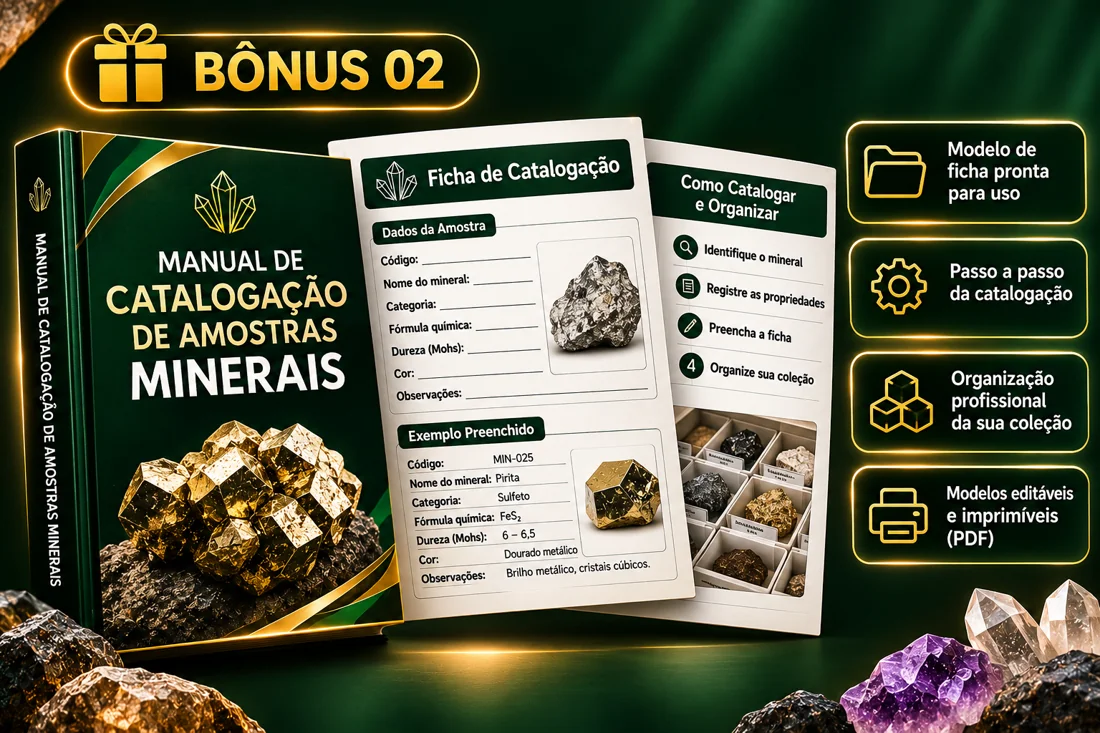
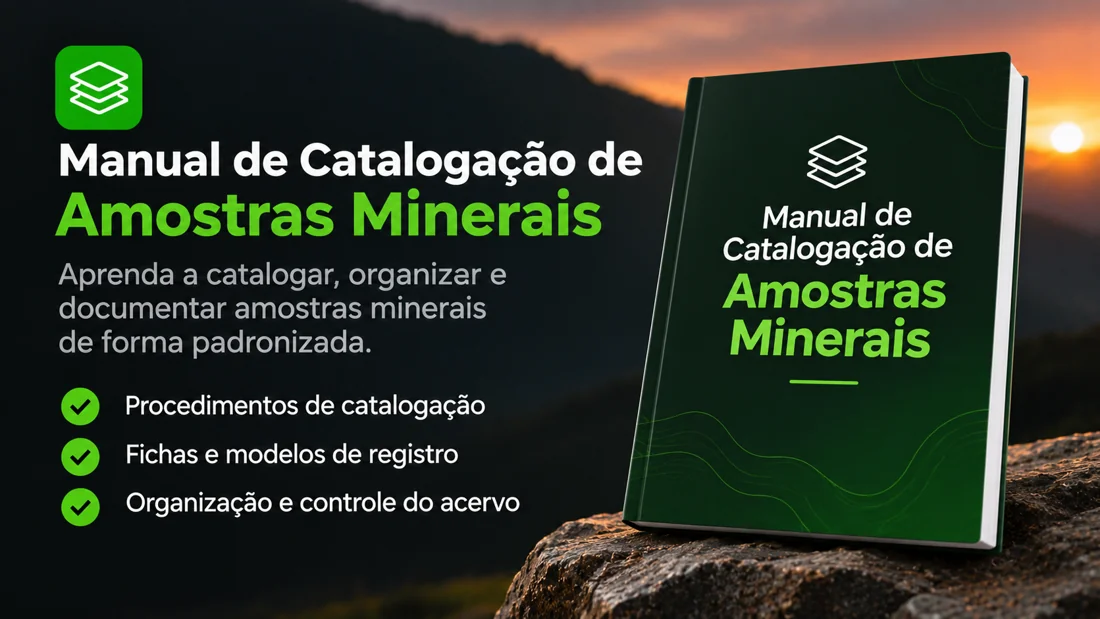
Update all four bonus images with new supplied artwork

diff --git a/index.html b/index.html
@@ -2,7 +2,7 @@
 <section class="section"><div class="head"><h2>Para quem é<br><em>este material?</em></h2></div><div class="audiences"><article class="audience"><span class="icon" aria-hidden="true">◇</span><h3>Estudantes</h3><p>Em Geologia, Engenharia de Minas e Geociências, relacione imagens e propriedades para complementar as aulas e revisar Mineralogia.</p></article><article class="audience"><span class="icon" aria-hidden="true">◈</span><h3>Professores</h3><p>Consulte exemplos e diagramas para preparar explicações de Mineralogia, Geologia e cursos técnicos, respeitando a licença dos arquivos.</p></article><article class="audience"><span class="icon" aria-hidden="true">⌕</span><h3>Técnicos e profissionais</h3><p>Retome fundamentos de identificação, propriedades e classes minerais para revisão e consulta em Geologia e Mineração.</p></article><article class="audience"><span class="icon" aria-hidden="true">▤</span><h3>Colecionadores e interessados</h3><p>Na Gemologia ou no estudo de uma coleção, compare características minerais e organize informações sobre suas amostras.</p></article></div></section>
 
 
-<section class="section soft" id="bonus"><div class="bonus-shell"><div class="head"><span class="tag">4 bônus no Plano Completo</span><h2>Bônus exclusivos</h2></div><article class="bonus-card"><img class="bonus-image" src="assets/bonus-01.webp" alt="Bônus 1 — Caderno de Questões de Mineralogia" width="1100" height="733" loading="lazy" decoding="async"><div class="bonus-copy"><small>BÔNUS 01</small><h3>Caderno de Questões de Mineralogia</h3><div class="bonus-free">Grátis no Plano Completo</div></div></article><article class="bonus-card"><img class="bonus-image" src="assets/bonus-02.webp" alt="Bônus 2 — Manual de Catalogação de Amostras Minerais" width="1100" height="733" loading="lazy" decoding="async"><div class="bonus-copy"><small>BÔNUS 02</small><h3>Manual de Catalogação de Amostras Minerais</h3><div class="bonus-free">Grátis no Plano Completo</div></div></article><article class="bonus-card"><img class="bonus-image" src="assets/bonus-03.webp" alt="Bônus 3 — Guia Ilustrado de Identificação de Rochas" width="1100" height="733" loading="lazy" decoding="async"><div class="bonus-copy"><small>BÔNUS 03</small><h3>Guia Ilustrado de Identificação de Rochas</h3><div class="bonus-free">Grátis no Plano Completo</div></div></article><article class="bonus-card"><img class="bonus-image" src="assets/bonus-04.webp" alt="Bônus 4 — Certificado Digital de Conclusão" width="1100" height="733" loading="lazy" decoding="async"><div class="bonus-copy"><small>BÔNUS 04</small><h3>Certificado Digital de Conclusão</h3><div class="bonus-free">Grátis no Plano Completo</div></div></article></div></section>
+<section class="section soft" id="bonus"><div class="bonus-shell"><div class="head"><span class="tag">4 bônus no Plano Completo</span><h2>Bônus exclusivos</h2></div><article class="bonus-card"><img class="bonus-image" src="assets/bonus-01.webp" alt="Bônus 1 — Caderno de Questões de Mineralogia" width="1100" height="619" loading="lazy" decoding="async"><div class="bonus-copy"><small>BÔNUS 01</small><h3>Caderno de Questões de Mineralogia</h3><div class="bonus-free">Grátis no Plano Completo</div></div></article><article class="bonus-card"><img class="bonus-image" src="assets/bonus-02.webp" alt="Bônus 2 — Manual de Catalogação de Amostras Minerais" width="1100" height="619" loading="lazy" decoding="async"><div class="bonus-copy"><small>BÔNUS 02</small><h3>Manual de Catalogação de Amostras Minerais</h3><div class="bonus-free">Grátis no Plano Completo</div></div></article><article class="bonus-card"><img class="bonus-image" src="assets/bonus-03.webp" alt="Bônus 3 — Guia Ilustrado de Identificação de Rochas" width="1100" height="619" loading="lazy" decoding="async"><div class="bonus-copy"><small>BÔNUS 03</small><h3>Guia Ilustrado de Identificação de Rochas</h3><div class="bonus-free">Grátis no Plano Completo</div></div></article><article class="bonus-card"><img class="bonus-image" src="assets/bonus-04.webp" alt="Bônus 4 — Certificado Digital de Conclusão" width="1100" height="733" loading="lazy" decoding="async"><div class="bonus-copy"><small>BÔNUS 04</small><h3>Certificado Digital de Conclusão</h3><div class="bonus-free">Grátis no Plano Completo</div></div></article></div></section>
 <section class="section" id="planos"><div class="head"><h2>Escolha seu plano</h2></div><div class="plans"><article class="plan"><h3>Plano Básico</h3><p class="desc">A coleção de fichas para estudo, revisão e consulta.</p><div class="price"><small>R$</small>10,00 <span>/ pagamento único</span></div><ul class="ticks"><li><strong>+150 materiais de Mineralogia em PDF</strong></li><li>Propriedades, classificações e exemplos visuais</li><li>Pagamento único</li><li class="excluded"><span class="sr-only">Não incluído: </span>Caderno de Questões de Mineralogia</li><li class="excluded"><span class="sr-only">Não incluído: </span>Manual de Catalogação de Amostras Minerais</li><li class="excluded"><span class="sr-only">Não incluído: </span>Guia Ilustrado de Identificação de Rochas</li><li class="excluded"><span class="sr-only">Não incluído: </span>Certificado Digital de Conclusão</li></ul><a class="btn outline" id="basic" href="#planos">QUERO O PLANO BÁSICO</a><p class="micro">Pagamento pela GGCheckout</p></article><article class="plan featured"><span class="ribbon">MATERIAL + 4 BÔNUS</span><h3>Plano Completo</h3><div class="price"><small>R$</small>27,90 <span>/ pagamento único</span></div><img class="product" src="assets/produto-vip.webp" alt="Plano Completo de Mineralogia com todos os bônus" width="1100" height="739" loading="lazy"><ul class="ticks"><li><strong>+150 materiais de Mineralogia em PDF</strong></li><li>Propriedades, classificações e exemplos visuais</li><li>Pagamento único</li></ul><div class="extras"><h4>4 BÔNUS INCLUSOS</h4><span>✓ Caderno de Questões de Mineralogia</span><span>✓ Manual de Catalogação de Amostras Minerais</span><span>✓ Guia Ilustrado de Identificação de Rochas</span><span>✓ Certificado Digital de Conclusão</span></div><a class="btn utmify-checkout" data-checkout="complete" href="https://ggcheckout.app/checkout/v5/Qt5i6xRSxDCVcWPWaxl1HI">COMPRAR O PLANO COMPLETO</a><p class="micro">Pagamento pela GGCheckout</p></article></div></section>
 <section class="section guarantee"><div class="seal7" role="img" aria-label="Garantia de 7 dias"><span>GARANTIA</span><b>7</b><span>DIAS</span></div><span class="tag">Antes de finalizar</span><h2>Escolha com<br><em>tranquilidade.</em></h2><p>Confira o valor, a forma de entrega, as condições de acesso e de reembolso na página de pagamento antes de concluir sua compra.</p></section>
 <section class="section faq"><div class="head"><span class="tag">Dúvidas</span><h2>Perguntas frequentes</h2></div><details><summary>O que encontro no material?</summary><p>Um PDF com +150 materiais de Mineralogia. As fichas reúnem imagens, propriedades, diagramas e explicações sobre identificação, cristalografia e classes minerais. Veja as amostras para avaliar a apresentação antes de escolher.</p></details><details><summary>As imagens da prévia são do produto?</summary><p>Sim. As amostras foram extraídas do PDF do material. Toque em uma delas para ampliar.</p></details><details><summary>Qual a diferença entre os planos?</summary><p>O Básico custa R$ 10,00 e inclui a coleção principal para estudo e consulta. O Completo custa R$ 27,90 e acrescenta o caderno de questões, o manual de catalogação, o guia de rochas e o certificado de conclusão.</p></details><details><summary>Como funciona o pagamento e o acesso?</summary><p>O pagamento é realizado na GGCheckout. Confira as instruções e condições de entrega apresentadas pela plataforma e guarde a confirmação da compra.</p></details><details><summary>O certificado tem validade profissional?</summary><p>Não é diploma, habilitação profissional ou curso reconhecido pelo MEC. A emissão depende dos critérios definidos para a conclusão. O aproveitamento como horas complementares não é automático: consulte sua instituição.</p></details><details><summary>Como posso usar a coleção?</summary><p>Para estudar, preparar explicações, revisar fundamentos e consultar características de amostras. A coleção pode apoiar estudantes, professores, técnicos, profissionais e colecionadores; confira as amostras para avaliar o nível. Não substitui referências acadêmicas, normas ou procedimentos laboratoriais. Reprodução, distribuição e uso comercial dependem da licença do produto.</p></details></section><footer class="footer"><a class="btn" href="#planos">QUERO ESCOLHER MEU PLANO →</a><p>+150 Materiais de Mineralogia<br>Material digital de estudo e consulta.</p></footer></main>
